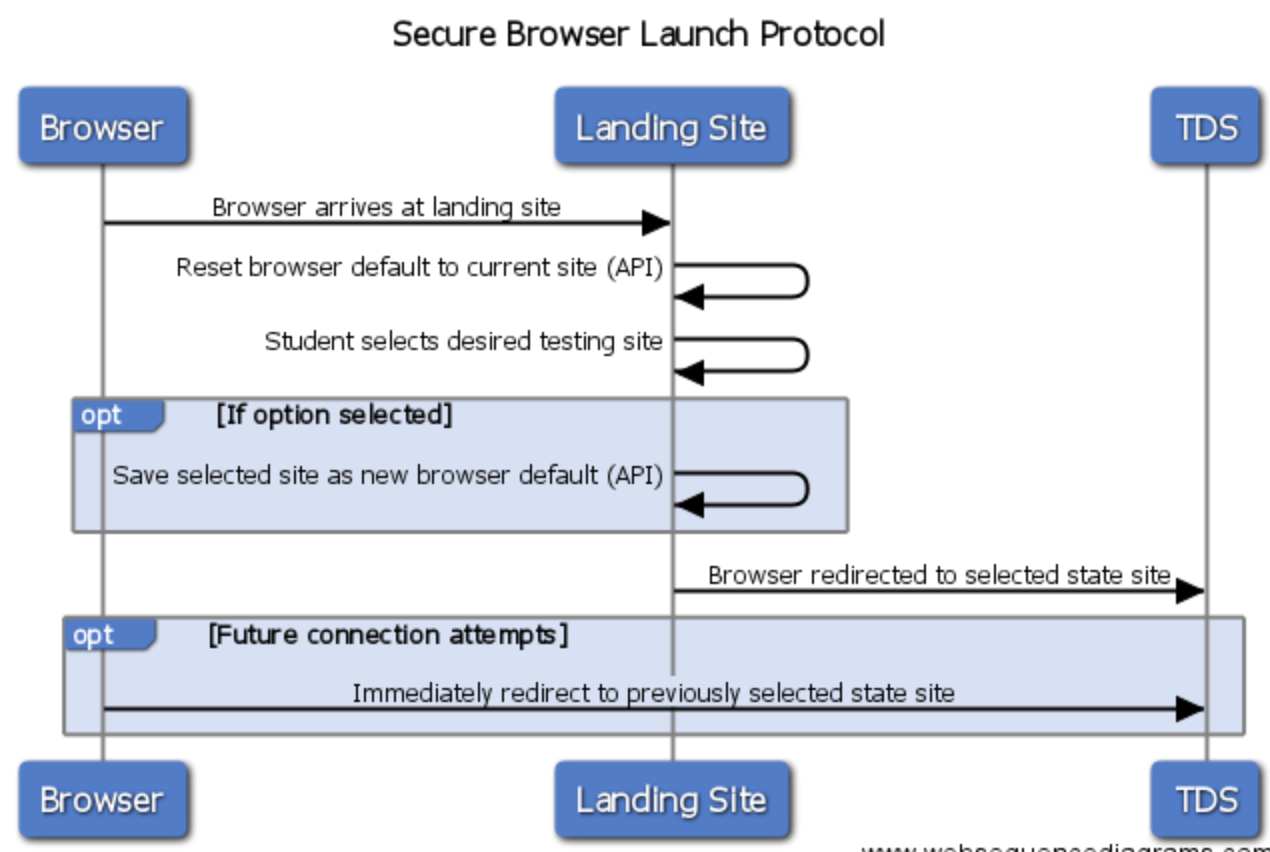
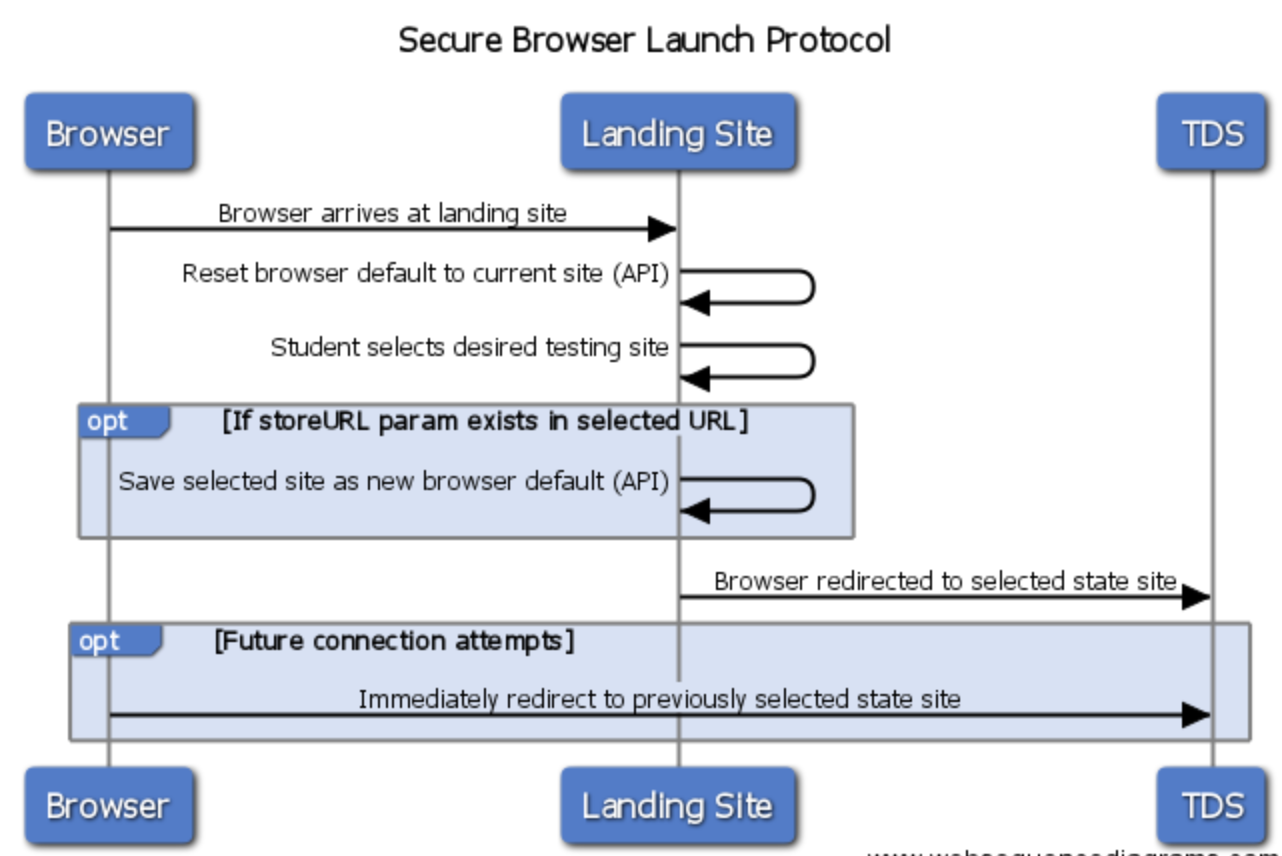
Clarify wording in optional section of sequence diagram

Changed region(s): [[0.0, 0.0915, 1.0, 1.0], [0.4299, 0.0915, 0.6449, 0.2136], [0.3071, 0.0, 0.7063, 0.061]]

diff --git a/irp/doc/req/SecureBrowserLaunchProtocol.html b/irp/doc/req/SecureBrowserLaunchProtocol.html
@@ -357,7 +357,7 @@ pre[class*="language-"] {
 
 <h1 id="toc_0">Secure Browser Launch Protocol Specification</h1>
 
-<p>v.1.9 - Last modified 28-Apr-2017</p>
+<p>v.1.10 - Last modified 30-Apr-2017</p>
 
 <h2 id="toc_1">IP Notice</h2>
 
